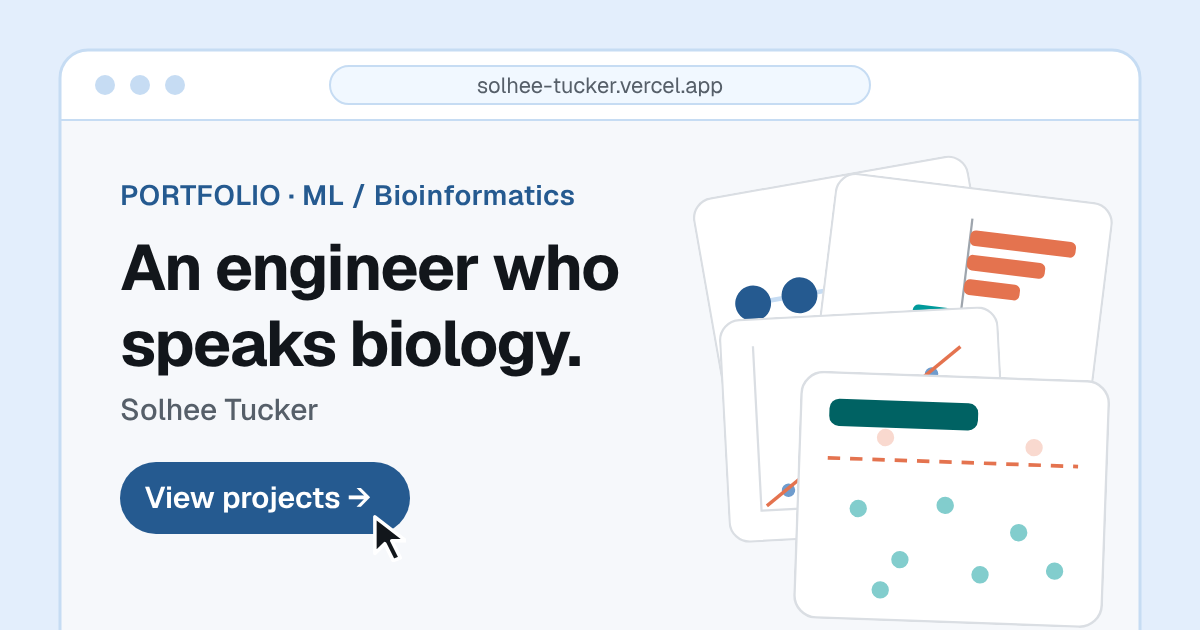
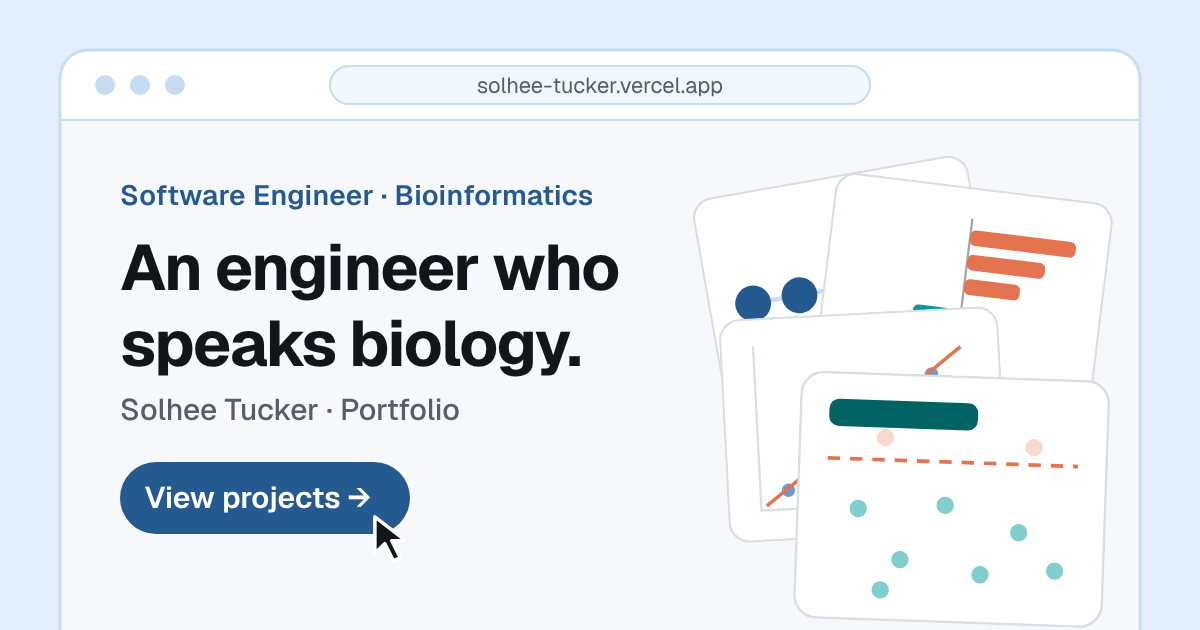
Change title to "Software Engineer · Bioinformatics"
Hero line, page title and description, and the link preview image (the
"Portfolio" label moves next to the name so the longer title fits).

Claude-Session: https://claude.ai/code/session_01C5DvL5Sw9kVgy1XXpTeLUG

Changed region(s): [[0.0925, 0.2714, 0.4933, 0.3317], [0.2775, 0.6333, 0.4008, 0.6635]]

diff --git a/design/og-image.html b/design/og-image.html
@@ -31,10 +31,10 @@
   <g fill="#c6dcf3"><circle cx="105" cy="85" r="10"/><circle cx="140" cy="85" r="10"/><circle cx="175" cy="85" r="10"/></g>
   <rect x="330" y="66" width="540" height="38" rx="19" fill="#f1f8ff" stroke="#c6dcf3" stroke-width="2"/>
   <text x="600" y="93" text-anchor="middle" font-size="22" fill="#565f69">solhee-tucker.vercel.app</text>
-  <text x="120" y="205" font-size="28" fill="#255a90" font-weight="600" letter-spacing="0.5">PORTFOLIO · ML / Bioinformatics</text>
+  <text x="120" y="205" font-size="28" fill="#255a90" font-weight="600" letter-spacing="0.3">Software Engineer · Bioinformatics</text>
   <text x="120" y="290" font-size="64" fill="#12161b" font-weight="700" letter-spacing="-1.5">An engineer who</text>
   <text x="120" y="366" font-size="64" fill="#12161b" font-weight="700" letter-spacing="-1.5">speaks biology.</text>
-  <text x="120" y="420" font-size="30" fill="#565f69" font-weight="500">Solhee Tucker</text>
+  <text x="120" y="420" font-size="30" fill="#565f69" font-weight="500">Solhee Tucker · Portfolio</text>
   <rect x="120" y="462" width="290" height="72" rx="36" fill="#255a90"/>
   <text x="258" y="508" text-anchor="middle" font-size="30" fill="#fff" font-weight="600">View projects →</text>
   <use href="#cur" x="372" y="514" width="34" height="48"/>

diff --git a/src/app/layout.tsx b/src/app/layout.tsx
@@ -14,9 +14,9 @@ const geistMono = Geist_Mono({
 });
 
 const SITE_URL = "https://solhee-tucker.vercel.app";
-const TITLE = "Solhee Tucker - ML / Bioinformatics Engineer";
+const TITLE = "Solhee Tucker - Software Engineer · Bioinformatics";
 const DESCRIPTION =
-  "Portfolio of Solhee Tucker, a machine learning engineer with a bioinformatics background.";
+  "Portfolio of Solhee Tucker, a software engineer who builds bioinformatics tools and analyses, end to end.";
 
 // The link preview image is src/app/opengraph-image.png (source:
 // design/og-image.html). The old my-portfolio-five-amber-97.vercel.app domain

diff --git a/src/components/hero/Hero.tsx b/src/components/hero/Hero.tsx
@@ -78,7 +78,7 @@ export default function Hero() {
           <motion.div variants={item}>
             <p className="text-sm font-medium text-slate-700">Solhee Tucker</p>
             <p className="mt-1 text-sm font-medium text-denim-600">
-              ML / Bioinformatics Engineer
+              Software Engineer · Bioinformatics
             </p>
           </motion.div>
 
